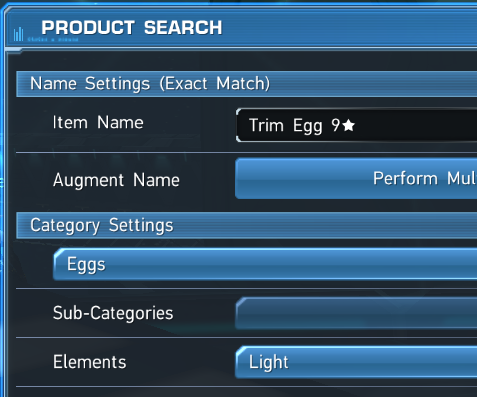
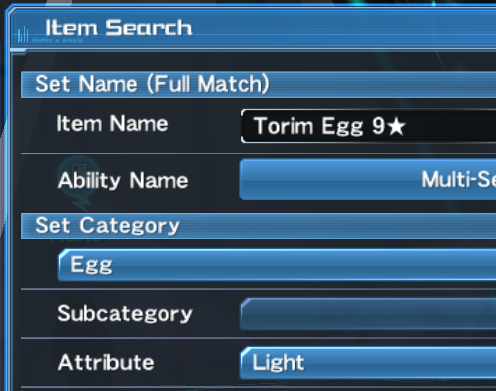
removed EN version images. replaced EN images with jp ones.

diff --git a/pet_setup.html b/pet_setup.html
@@ -1,7 +1,7 @@
 <!doctype html>
 <html lang="en">
 	<head>
-		<title>Pets & Candy | Summoner.txt</title><!-- Name of your page -->
+		<title>Pet Setup | Summoner.txt</title><!-- Name of your page -->
 		<meta charset="utf-8">
 		<meta name="viewport" content="width=device-width, initial-scale=1, shrink-to-fit=no">
 		<meta name="keywords" content="phantasy star online 2, pso2, summoner, su, guide, update, 
@@ -202,7 +202,7 @@
                                         Eggs up to 9★ can be found through the player shop to give you a decent starting point.<br><br>
 
                                         13★ eggs of all pets (except for Rappy) can then easily be obtained through Pudding's Collection Files. 
-                                        <div class=" mx-auto col-sm-9 col-md-8 col-lg-11 col-10">
+                                        <div class="mx-auto col-sm-9 col-md-8 col-lg-11 col-10">
                                             <img class="w-100 rounded" src="images/pets_candy/pet_13_CF_cutoff.png" alt="Pet 13 Star Collection File">
                                         </div><br>
 
@@ -246,14 +246,19 @@
 
                                 <p class="card-title semibold text-blueish">Setting Up Your Pet's Attribute & Personality</p>
                                         To make sure your pets are Light right out the gate, simply search the Player Shop for a Light version of the pet. 
-                                        When looking through eggs, also aim for your pet's desired personality at the same time.<br>
+                                        When looking through eggs, also aim for your pet's desired personality at the same time.<br><br>
 
-                                        <div class="center">
-                                            <img src="images/pets_candy/pet_market_search_cutoff.png" class="rounded my-2 mr-2" width="339" 
-                                                alt="Trim Egg 9 Star. Category Settings: Eggs. Elements: Light"> 
-
-                                            <img src="images/pets_candy/pet_market_found.png" class="rounded my-2" width="307" alt="Trim Egg 9 Star. Light. Industrious Lv1.">
-                                        </div><br>
+                                    <div class="row">
+                                        <div class="mx-auto my-auto col-md-8 col-lg-5 col-12">
+                                            <img class="w-100 rounded my-3" src="images/pets_candy/pet_market_search_cutoff.png" 
+                                            alt="Torim Egg 9 Star. Category Settings: Eggs. Elements: Light">
+                                        </div>
+                                        
+                                        <div class="mx-auto my-auto col-md-8 col-lg-5 col-10">
+                                            <img src="images/pets_candy/pet_market_found.png" class="w-100 rounded my-3" 
+                                            alt="Torim Egg 9 Star. Light. Dilligent Lv1.">
+                                        </div>
+                                    </div><br>
 
                                         Once you have a pet with the desired element and personality, you can simply use <span class="highlight">Evolve Pet Rarity</span> at Ariel
                                         to upgrade your pet using higher rarity eggs in the future.<br><br>
@@ -370,7 +375,7 @@
                                                     <td>130</td>
                                                     <td>150</td>
                                                 </tr>
-                                                <tr class="table-info">
+                                                <tr>
                                                     <td class="semibold"scope="row">Glass</td>
                                                     <td>90</td>
                                                     <td>100</td>
@@ -388,7 +393,6 @@
                                                 </tbody>
                                         </table>
 
-                                        <span class="text-info center semibold">Glass isn't currently available on NA.</span><br><br>
                                            
                                     </div>
                         </div>
